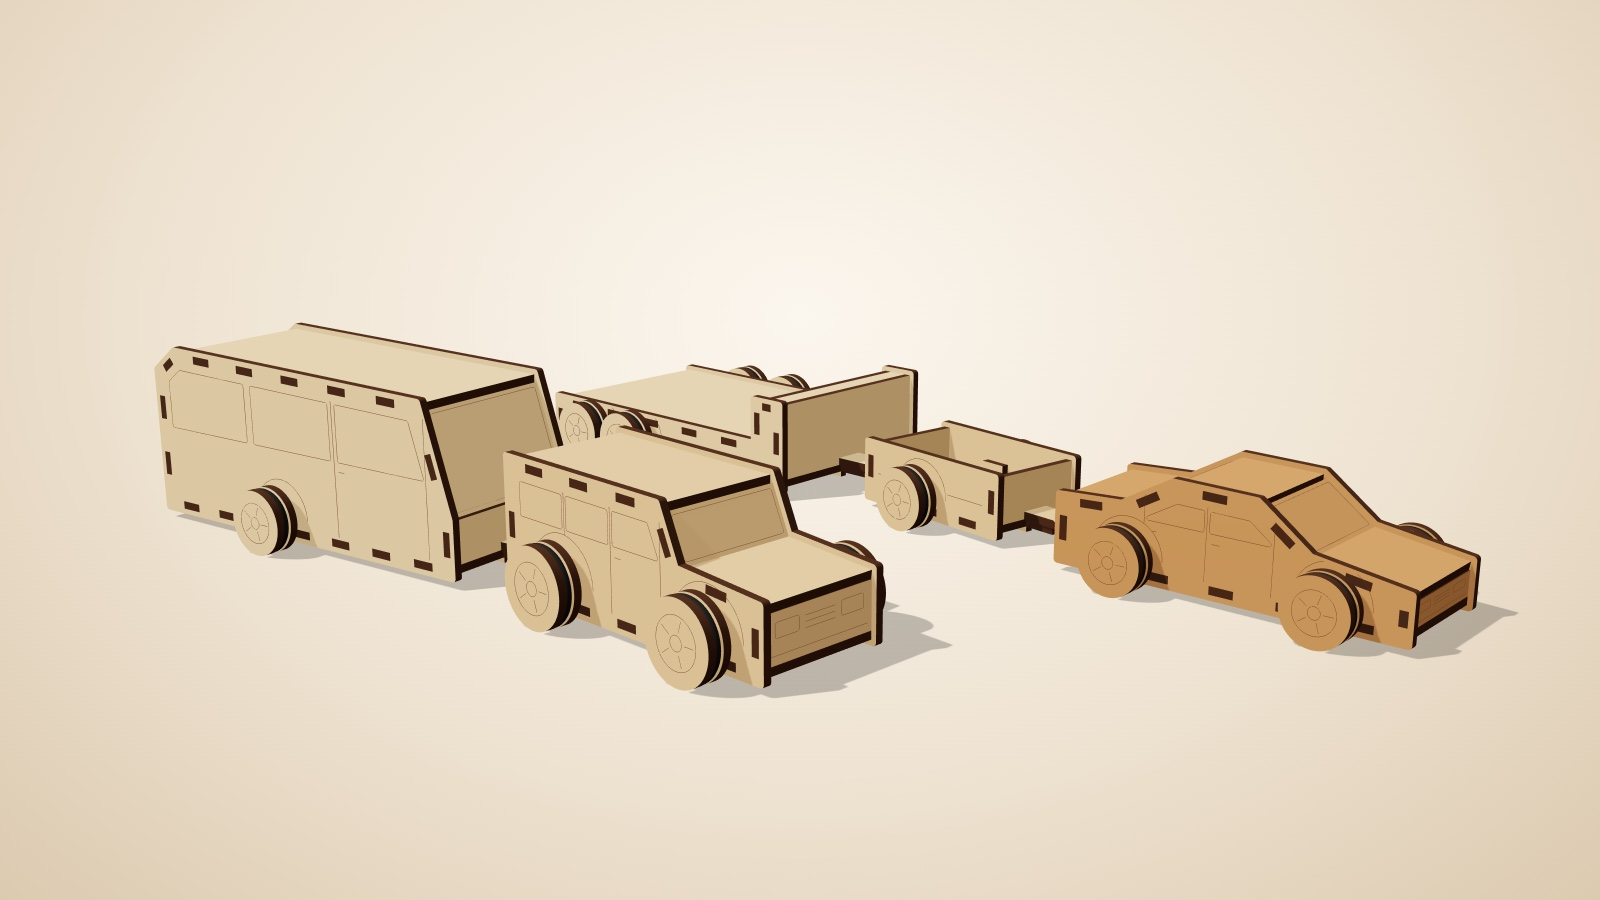
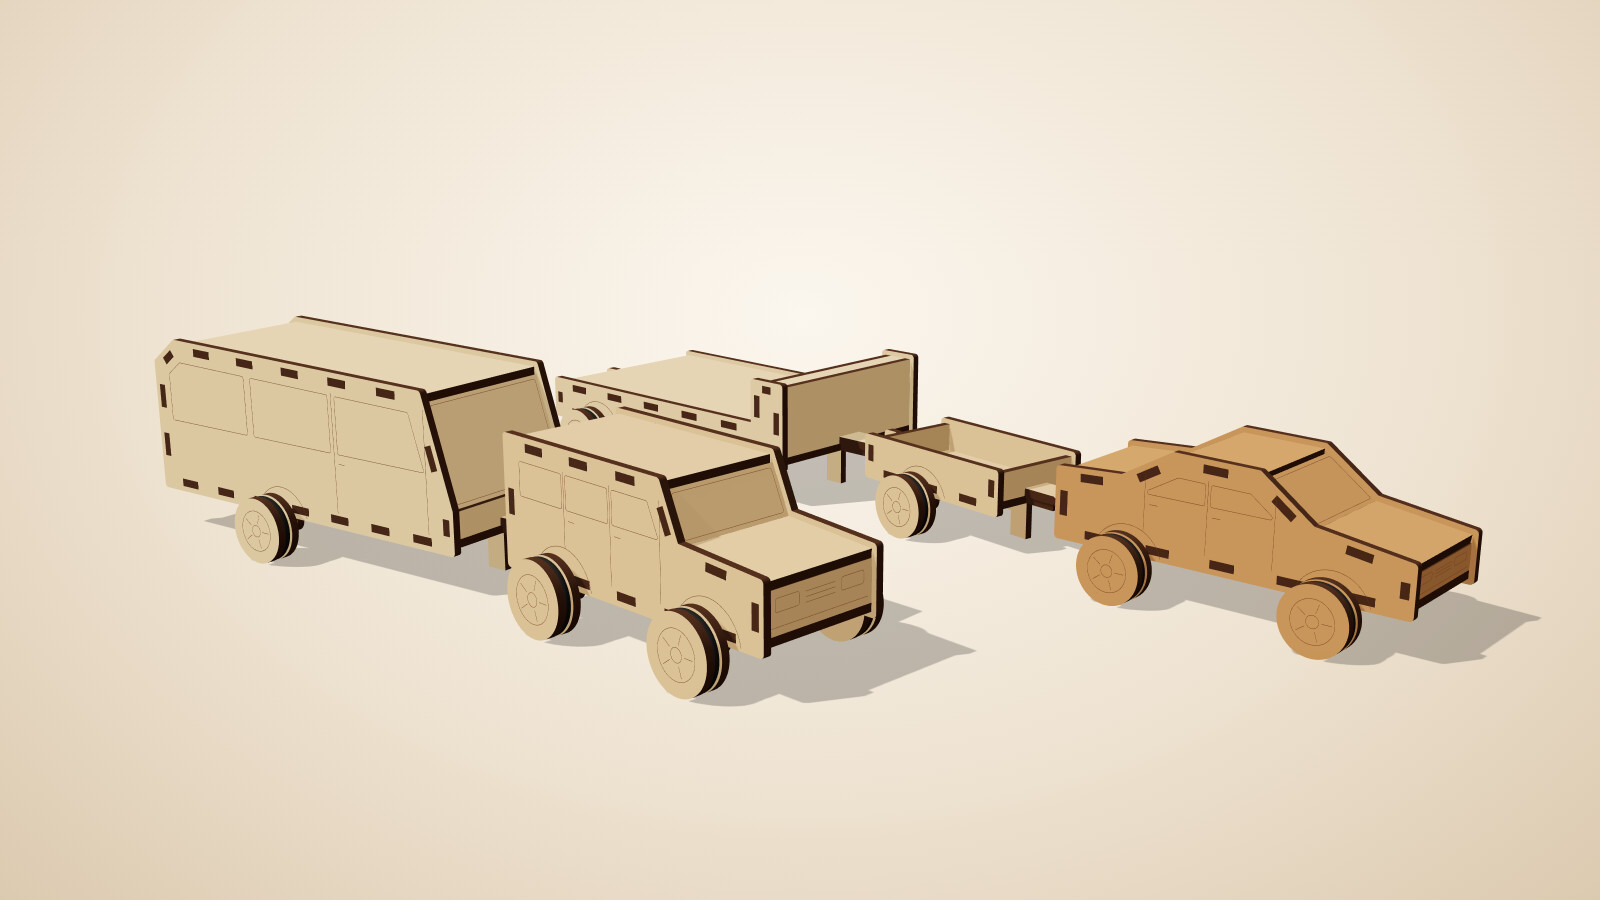
README images: vehicles with the axles under the floor

Changed region(s): [[0.0938, 0.3422, 0.9688, 0.8089], [0.1875, 0.4978, 0.2188, 0.5289]]

diff --git a/docs/architecture.md b/docs/architecture.md
@@ -114,4 +114,4 @@ applied to a wrapper group. Last-used params are stored per generator in localSt
 `docs/images/*` are screenshots. The renders (`convoy`, `lineup`, `exploded`, `pawn`) come from
 `scripts/readme_images.py`, which writes one HTML page with every scene built from real generator output
 (open `scenes.html#convoy` etc. at 1600×900 and screenshot it). `app.png` is the web UI and `cut-sheet.png`
-is a jeep cut file on a 380×160 mm sheet.
+is a jeep cut file on a 400×180 mm sheet.
